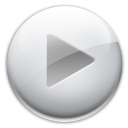
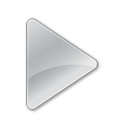
Signed-off-by: Gustavo De Souza <gusthavo.souzapereira@gmail.com>

diff --git a/MusicPlayer/web/audio.html b/MusicPlayer/web/audio.html
@@ -88,7 +88,7 @@
 								tags : [ "title", "artist", "album", "picture" ],
 								dataReader : FileAPIReader(file)
 							});
-			createAudio(input.files[x], imgSrc);
+			createAudio(input.files[x], imgSrc,x);
 		}
 	}
 
@@ -98,12 +98,12 @@
 		sound.src = audio;
 	}
 
-	function createAudio(file, imgSrc) {
+	function createAudio(file, imgSrc,x) {
 		
 		var playList = document.getElementById('playList');
 
 		var tr = document.createElement('tr');
-
+		
 		var td = document.createElement('td');
 
 		var tdImg = document.createElement('td');
@@ -164,6 +164,8 @@
 	function playAudio() {
 
 		var music = document.getElementById('playerAudio');
+		
+		if(music.src != null && music.src != ""){
 		music.play();
 		var seek = document.getElementById('seekBar');
 		var fim = document.getElementById('fim');
@@ -171,7 +173,9 @@
 		var f = music.duration / 60;
 		fim.innerHTML =  f.toFixed(2);
 		updateSeek();
-		
+		document.getElementById('playImg').style.display = "none";
+		document.getElementById('pauseImg').style.display = "";
+		}
 	}
 	
 	function setTimeMusic(timer) {
@@ -199,8 +203,10 @@
 		var music = document.getElementById('playerAudio');
 
 		music.pause();
-
 		clearTempo();
+		document.getElementById('pauseImg').style.display = "none";
+		document.getElementById('playImg').style.display = "";
+		
 	}
 </script>
 </head>
@@ -217,24 +223,24 @@
 		style="position: fixed; z-index: -1; background: black; width: 50%; height: 65%; left: 0px; top: 20%">
 		<output style="color: white;"> Aqui vai o player</output>
 		
-		<div id="player">
+		<div id="player" style="width: 60%; height: 60%; border: 1px solid blue; top: 10%; position: relative; left: 10%;">
 			<audio id="playerAudio">
 			</audio>
+
+			<div id="playDiv">
 			
-			<div id="playDiv" >
-			
-			<button onclick="playAudio();">Play</button>
-			<button onclick="pauseAudio();" >Pause</button>
-			<output id="inicio" style="color: white;">  0:00  </output>
-			<input type="range" id="seekBar" value="0"  
-			onchange="setTimeMusic(this.value);" >
-<!-- 			<progress value="0" id="seekBar"></progress> -->
-			<output id="fim" style="color: white;"> 0:00
-			 </output>
-					
-				</div>
-		</div>
-		<img alt="" id="picture" src="images/album.jpg"
+				<img alt="" id="playImg" src="images/play.png " onclick="playAudio();"
+				style="width: 15%; height: 15%; cursor: pointer; " >
+				<img alt="" id="pauseImg" onclick="pauseAudio();" src="images/pause.png"
+				 style="width: 15%; height: 15%; display: none; cursor: pointer;">
+				<output id="inicio" style="color: white;"> 0:00 </output>
+				<input type="range" id="seekBar" value="0"
+					onchange="setTimeMusic(this.value);">
+				<!-- 			<progress value="0" id="seekBar"></progress> -->
+				<output id="fim" style="color: white;"> 0:00 </output>
+			</div>
+
+			<img alt="" id="picture" src="images/album.jpg"
 			style="width: 150px; height: 150px; background: white; top: 30px; position: relative; left: 30px; border-radius: 5px;">
 		<div id="infos" style="position: absolute; top: 10px; left: 200px;">
 			<table>
@@ -252,15 +258,23 @@
 				</tr>
 			</table>
 		</div>
+		</div>
+		
 	</section>
-	
+
 	<section
 		style="position: fixed; z-index: -1; background: black; width: 50%; height: 65%; left: 50%; top: 20%"">
-		<table id="playList" >
-			<tr>
-				<td colspan="2"><output style="color: white;"> Aqui vai a List</output></td>
-			</tr>
-		</table>
+
+		<div style="width: 100%; height: 10%;">
+			<output
+				style="color: white; font-size: 30px; font-family: Times New Roman, Times, serif;">Play
+				List</output>
+		</div>
+		<div style="overflow: auto; max-height: 70%;">
+			<table id="playList" >
+
+			</table>
+		</div>
 	</section>
 	<footer
 		style="position: fixed; bottom: 0px; width: 100%; height: 15%; background-color: black; left: 0px;">
